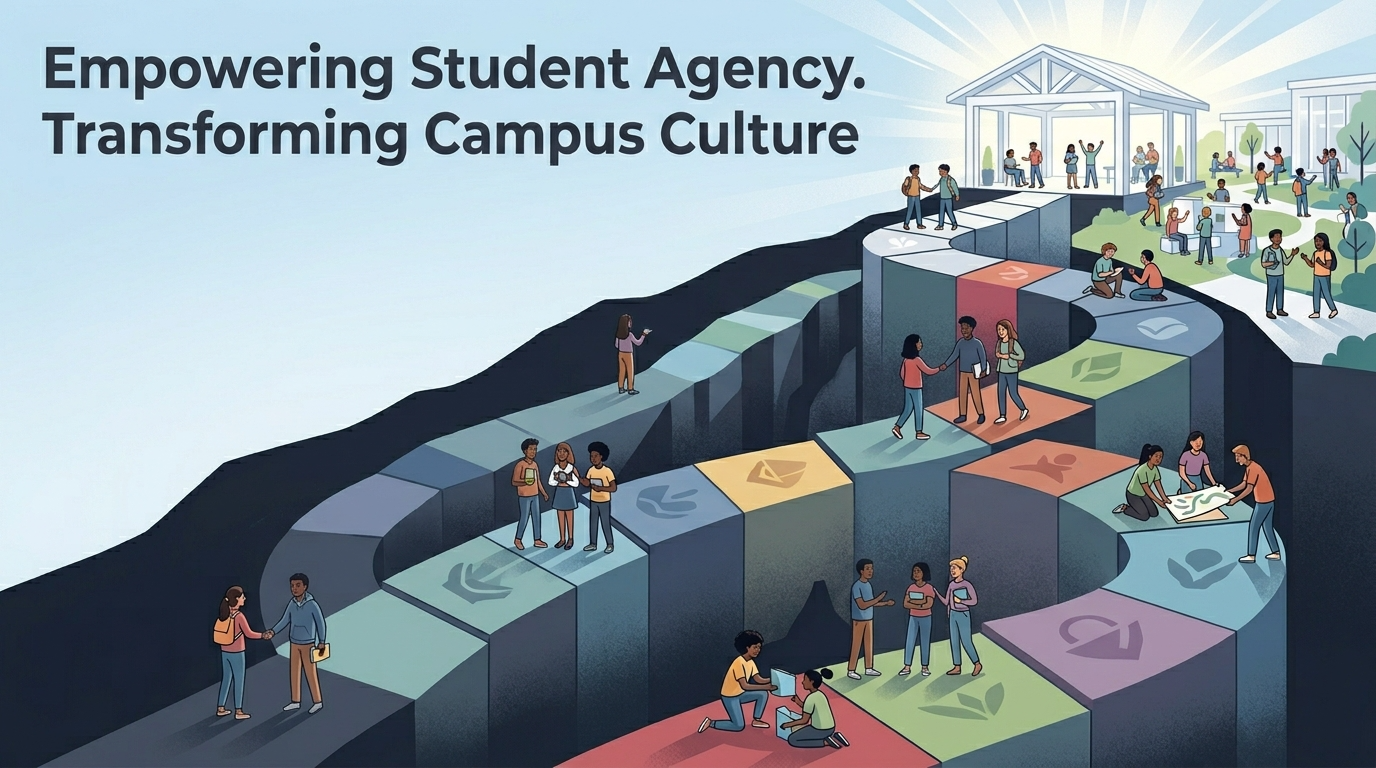
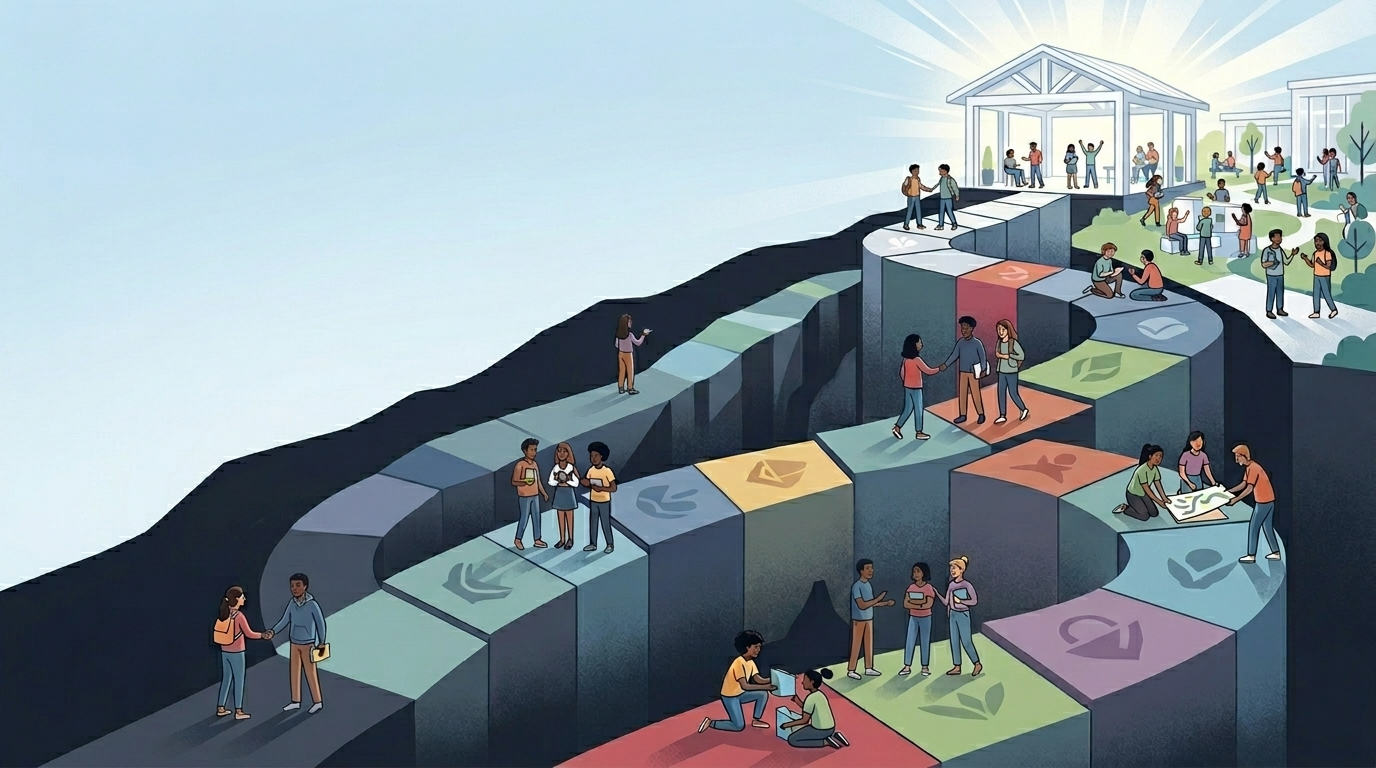
touch ups

diff --git a/sites/teacher-site/src/routes/+page.svelte b/sites/teacher-site/src/routes/+page.svelte
@@ -1,6 +1,7 @@
 <script lang="ts">
 	import { thickMargins } from '@autonomy/actions'
 	import { BookOpen, Compass, Milestone } from '@lucide/svelte'
+	import HeroImage from '$images/hero-image-alt.png?enhanced'
 </script>
 
 <section
@@ -13,6 +14,13 @@
 		and self-governance in high school students based on the transformative power of
 		the 12-Step Reconstructive Process and the Five Agreements.
 	</p>
+
+	<enhanced:img
+		class="margin-bottom"
+		src={HeroImage}
+		alt="Students engaging with the curriculum"
+	/>
+
 	<a class="cta" href="/mission">
 		<Compass /> Explore the Framework
 	</a>

diff --git a/sites/teacher-site/src/routes/+layout.svelte b/sites/teacher-site/src/routes/+layout.svelte
@@ -218,12 +218,10 @@
 
 	.layout-wrapper {
 		max-width: 1000px;
-		margin: var(--gap-2) auto;
 		min-height: 100svh;
 		display: grid;
 		padding: var(--gap-2);
-		grid-template-rows: auto auto 1fr auto; /* Adjusted for Banner */
-		background: var(--surface-4);
+		grid-template-rows: auto auto 1fr auto;
 		gap: var(--gap-2);
 
 		p {

diff --git a/packages/core/style/index.css b/packages/core/style/index.css
@@ -71,6 +71,8 @@ img {
   width: 100%;
   height: auto;
   object-fit: cover;
+  padding: 0;
+  margin: 0;
 
   &.margin-bottom {
     margin-bottom: var(--gap-1);